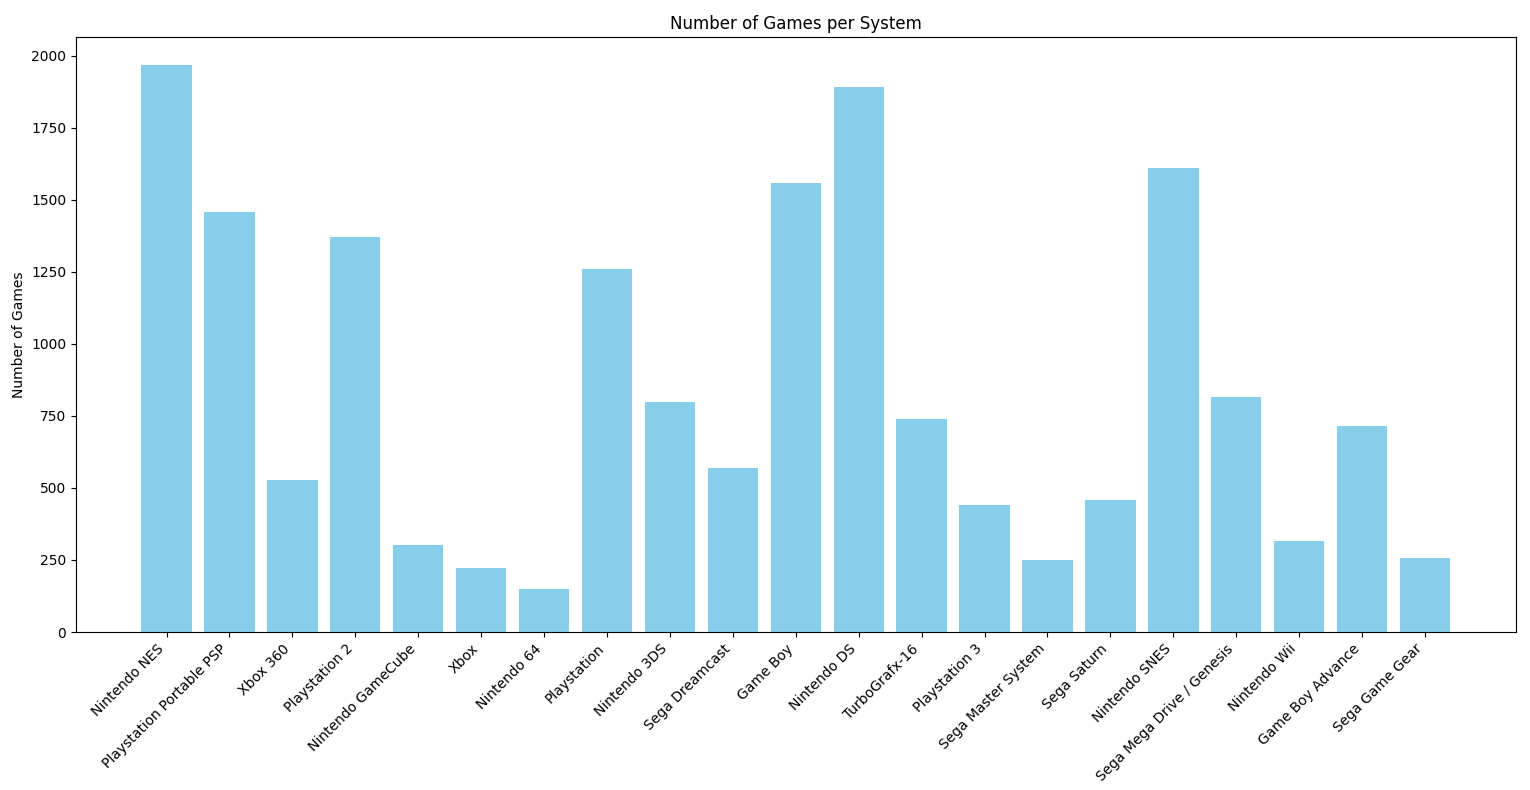
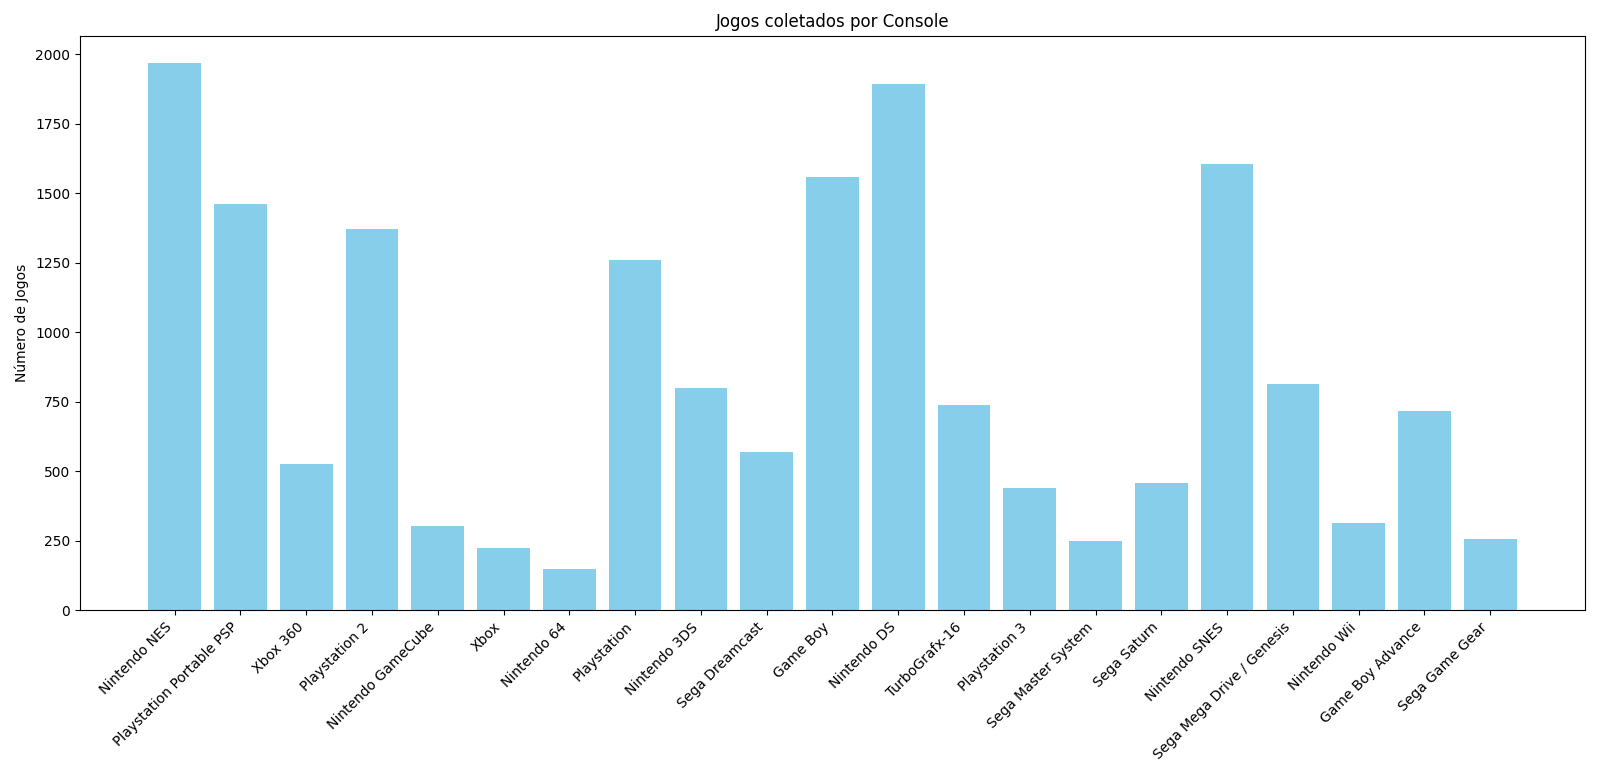
FEAT: update plots

diff --git a/3. Collecting youtube links/vgm/metrics/plots.py b/3. Collecting youtube links/vgm/metrics/plots.py
@@ -32,27 +32,27 @@ year_counts = Counter(years)
 
 # Create graphs
 # Graph 1: Games per System
-plt.figure(figsize=(10, 5))
+plt.figure(figsize=(16, 8))
 plt.bar(system_counts.keys(), system_counts.values(), color="skyblue")
-plt.title("Number of Games per System")
-plt.xlabel("System")
-plt.ylabel("Number of Games")
-plt.xticks(rotation=45)
+plt.title("Jogos coletados por console")
+plt.xlabel("Console")
+plt.ylabel("Número de Jogos")
+plt.xticks(rotation=45, ha="right")
 plt.tight_layout()
+plt.subplots_adjust(bottom=0.2)
 plt.show()
 
-print(year for year in year_counts.items() if year >= 2025)
-
-filtered_year_counts = {
-    year: count for year, count in year_counts.items() if 1900 <= year <= 2025
-}
+filtered_year_counts = {year: count for year, count in year_counts.items() if 1900 <= year <= 2025}
 
 # Graph 2: Games per Year
-plt.figure(figsize=(10, 5))
+average_games = sum(filtered_year_counts.values()) / len(filtered_year_counts)
+plt.figure(figsize=(16, 8))
 plt.bar(filtered_year_counts.keys(), filtered_year_counts.values(), color="lightgreen")
-plt.title("Number of Games per Year")
-plt.xlabel("Year")
-plt.ylabel("Number of Games")
+plt.axhline(y=average_games, color='red', linestyle=':', label=f'Average: {average_games:.2f}')
+plt.title("Jogos coletados por ano")
+plt.xlabel("Ano")
+plt.ylabel("Número de Jogos")
 plt.xticks(rotation=45)
 plt.tight_layout()
+plt.legend()
 plt.show()

diff --git a/3. Collecting youtube links/zophar/metrics/plots.py b/3. Collecting youtube links/zophar/metrics/plots.py
@@ -33,9 +33,9 @@ year_counts = Counter(years)
 # Graph 1: Games per System
 plt.figure(figsize=(16, 8))
 plt.bar(system_counts.keys(), system_counts.values(), color="skyblue")
-plt.title("Number of Games per System")
-plt.xlabel("System")
-plt.ylabel("Number of Games")
+plt.title("Jogos coletados por Console")
+plt.xlabel("Console")
+plt.ylabel("Número de Jogos")
 plt.xticks(rotation=45, ha="right")
 plt.tight_layout()
 plt.subplots_adjust(bottom=0.2)
@@ -48,9 +48,9 @@ average_games = sum(filtered_year_counts.values()) / len(filtered_year_counts)
 plt.figure(figsize=(16, 8))
 plt.bar(filtered_year_counts.keys(), filtered_year_counts.values(), color="lightgreen")
 plt.axhline(y=average_games, color='red', linestyle=':', label=f'Average: {average_games:.2f}')
-plt.title("Number of Games per Year")
-plt.xlabel("Year")
-plt.ylabel("Number of Games")
+plt.title("Jogos coletados por ano")
+plt.xlabel("Ano")
+plt.ylabel("Número de Jogos")
 plt.xticks(rotation=45)
 plt.tight_layout()
 plt.legend()
